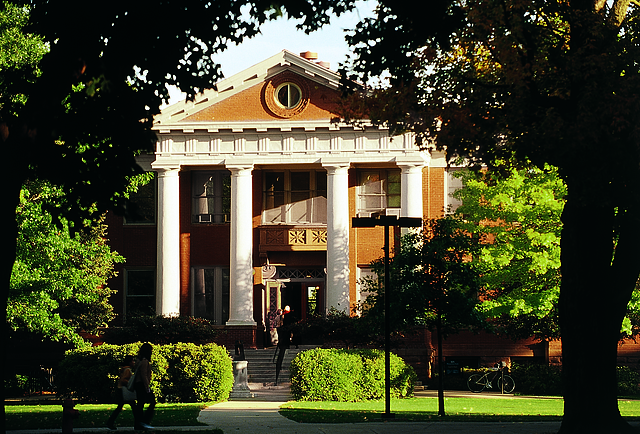
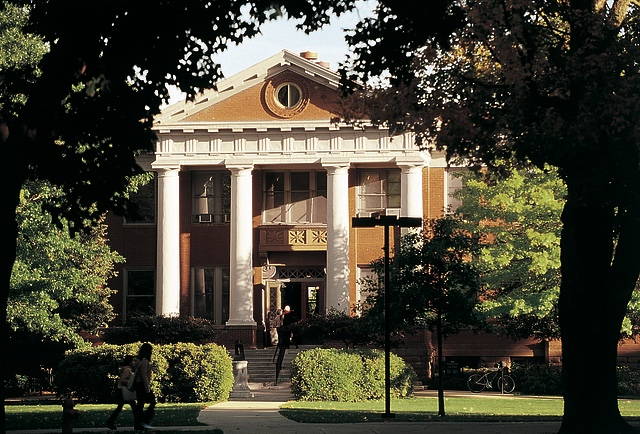
rename file and convert file from cmyk to rgb

diff --git a/images/carls-building-images.js b/images/carls-building-images.js
@@ -25,7 +25,7 @@ export const buildingImages = {
   'leighton': require('./carls-buildinghours/leighton.jpg'),
   'mudd': require('./carls-buildinghours/mudd.jpg'),
   'olin': require('./carls-buildinghours/olin.jpg'),
-  'peps': require('./carls-buildinghours/peps.jpeg'),
+  'peps': require('./carls-buildinghours/peps.jpg'),
   'perlman': require('./carls-buildinghours/perlman.jpg'),
   'post-office': require('./carls-buildinghours/post-office.jpg'),
   'rec-center': require('./carls-buildinghours/rec-center.jpg'),
